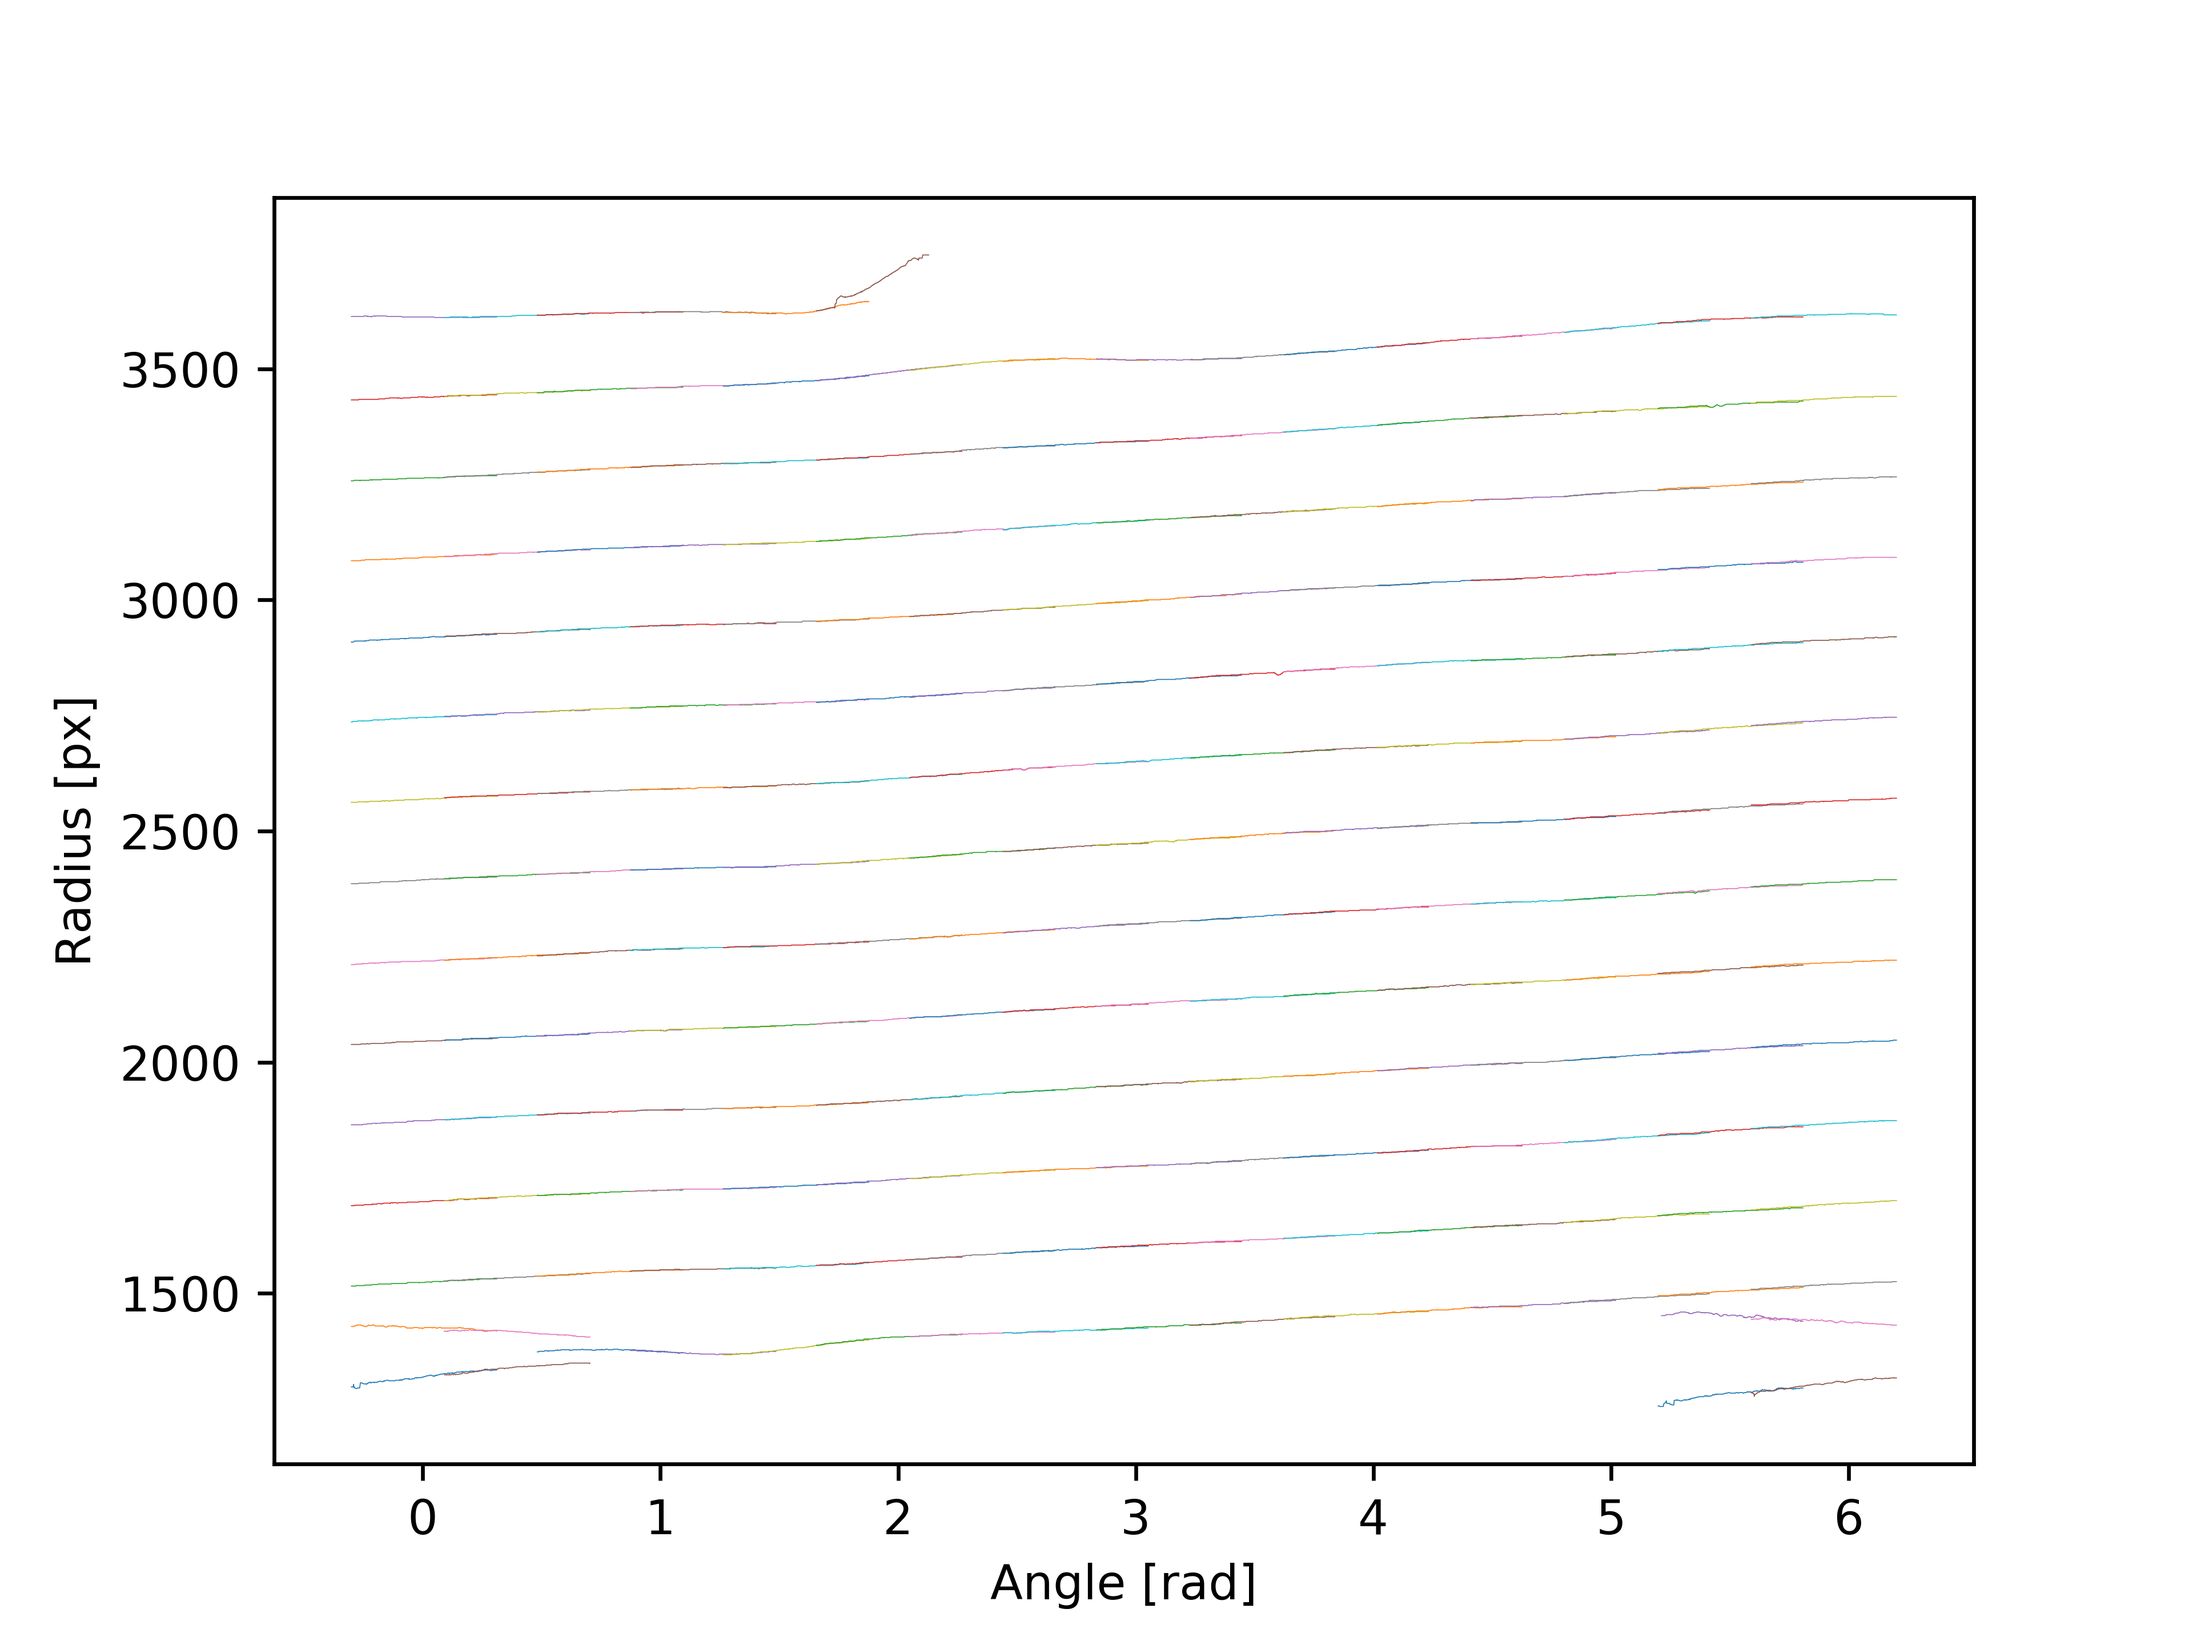
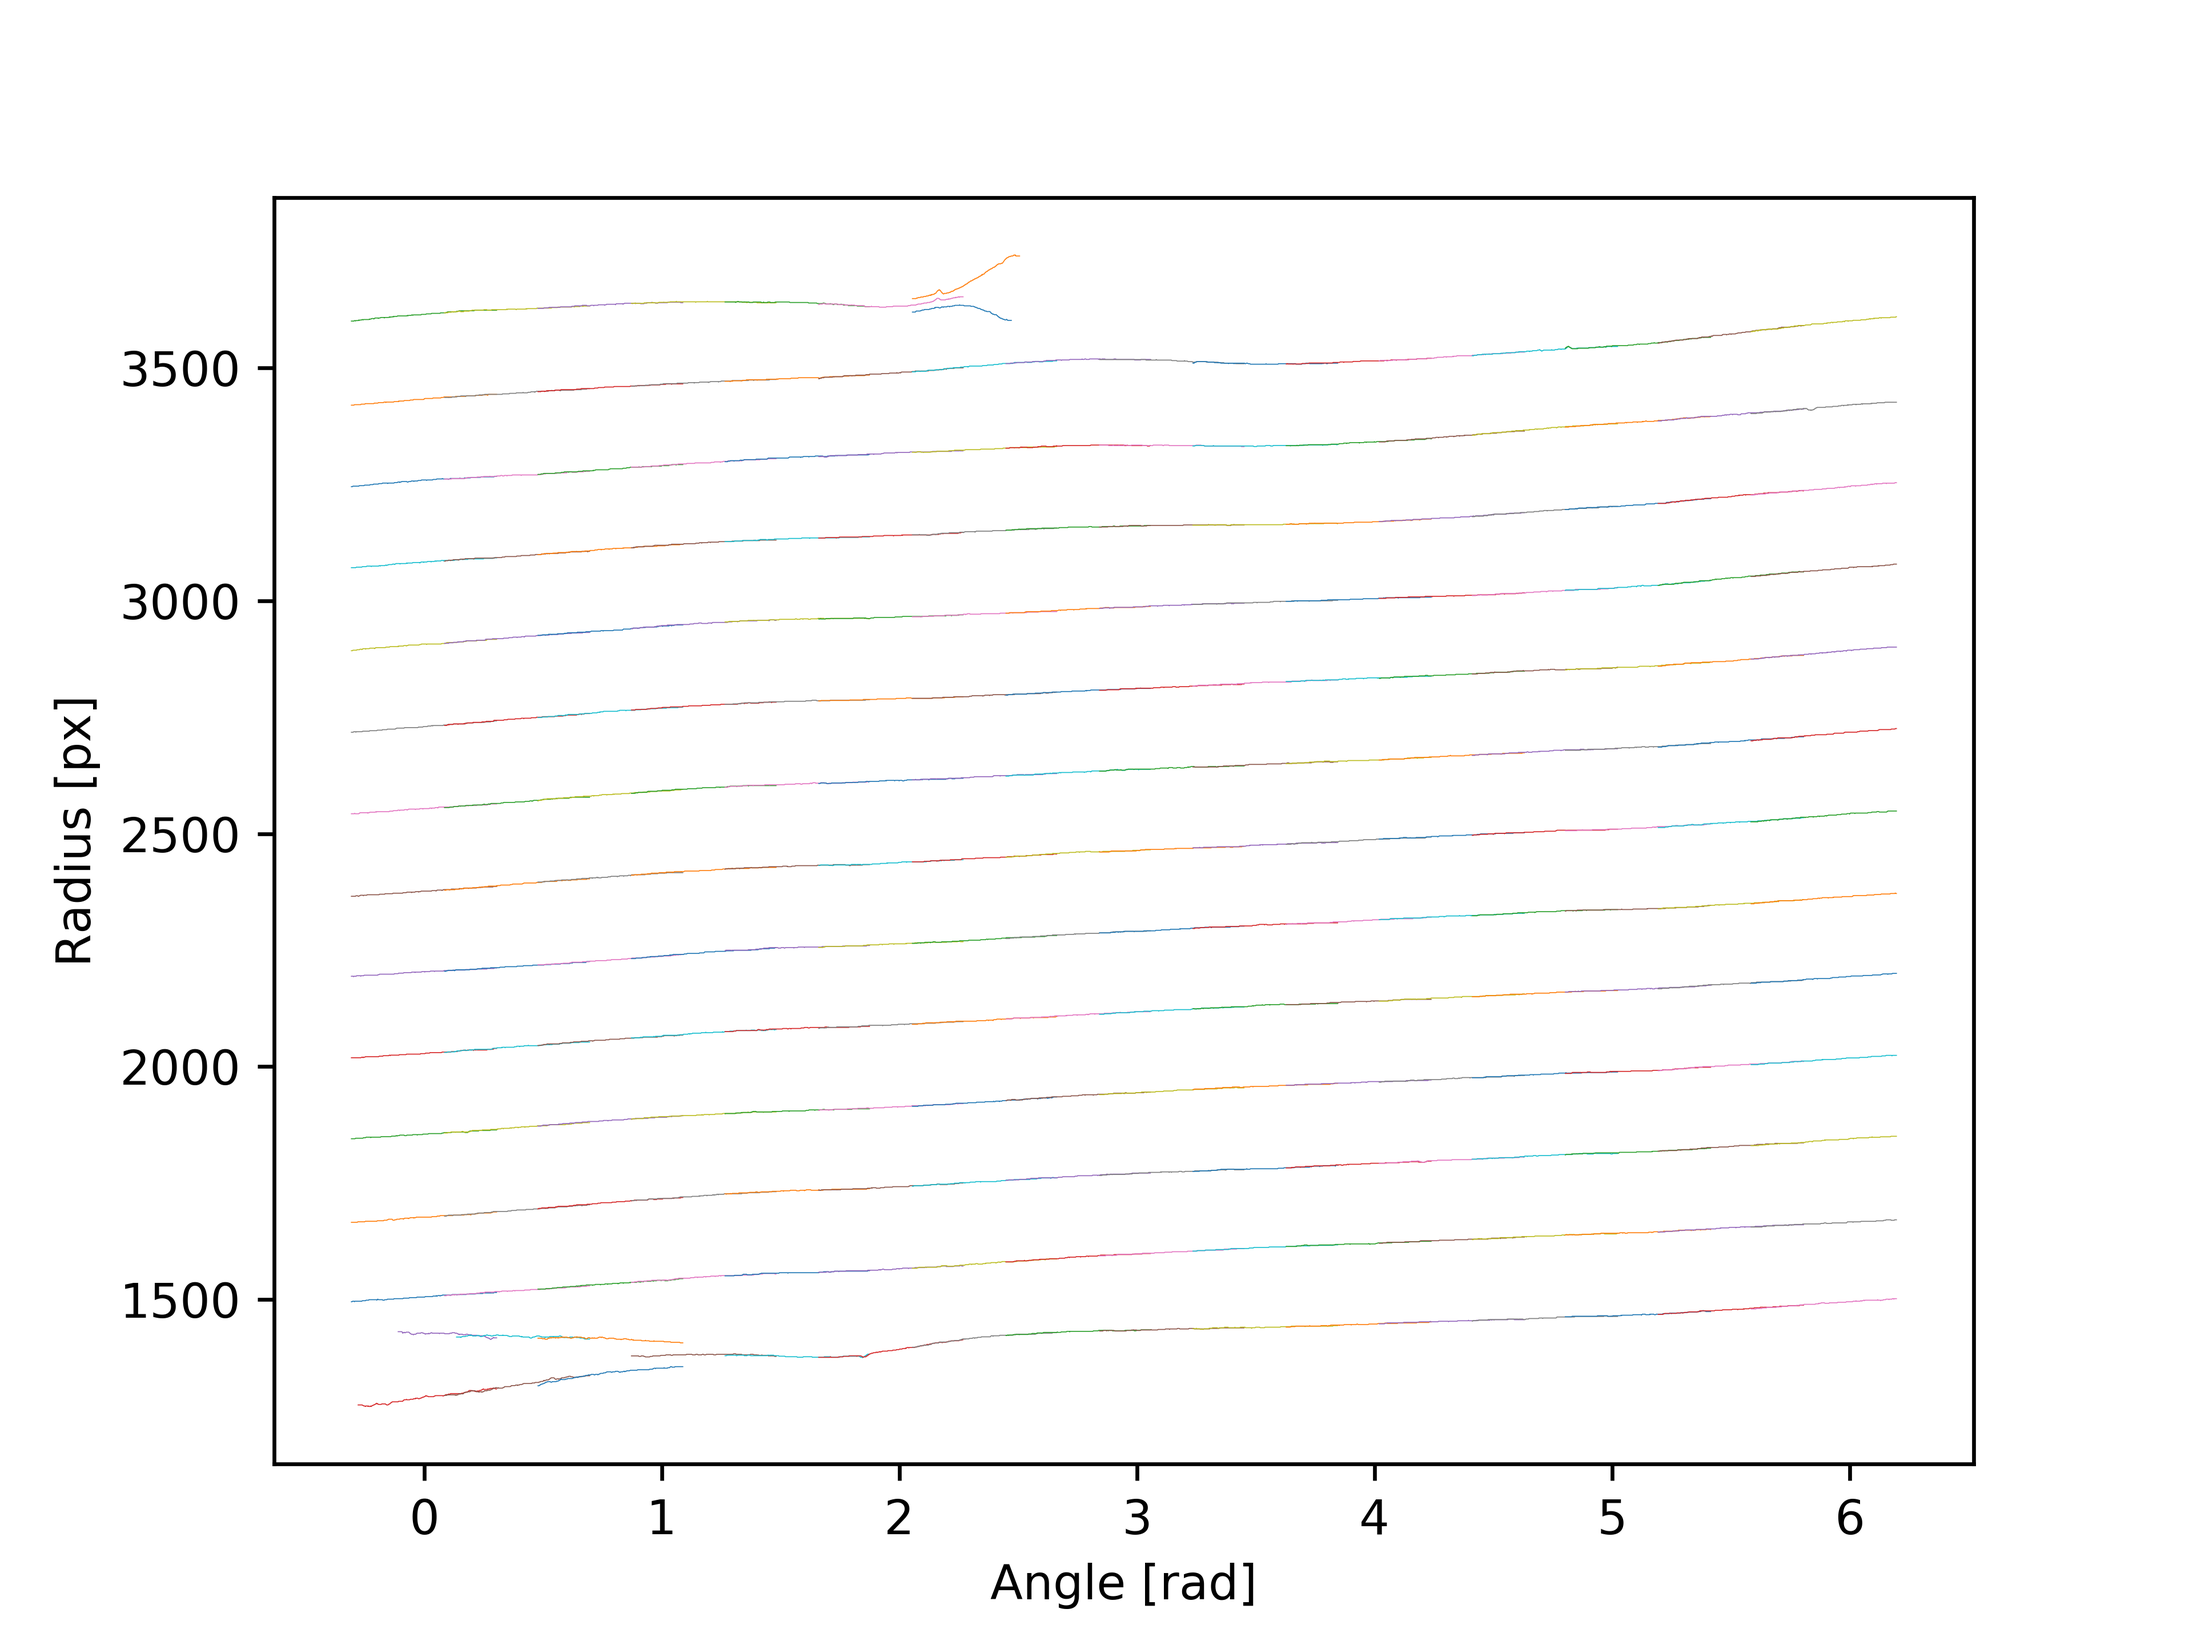
minor changes LAB TEST

diff --git a/applied/pair.py b/applied/pair.py
@@ -33,8 +33,8 @@ class Pair:
         self.electrodes = sorted(electrodes, key=operator.attrgetter('chirality'))
         if self.electrodes[0].chirality == self.electrodes[1].chirality:
             raise Exception('Chirality Error')
-        self.correctMidpoint()
-        self.optimizeRotation()
+        # self.correctMidpoint()
+        # self.optimizeRotation()
         t = datetime.datetime.now()
         self.timestamp = (str(t.year) + '-' + str(t.month) + '-' + str(t.day) + '-' +
                           str(t.hour) + '-' + str(t.minute) + '-' + str(t.second))
@@ -217,37 +217,45 @@ class Pair:
         a2D = np.lib.stride_tricks.as_strided(rs, shape=(nrows, W), strides=(n, n))
         out = np.std(a2D, axis=1)
         cutoff = np.argmax(out > 0.015)
-        rbase = rs[:cutoff]
-        rend = rs[cutoff:]
+        if cutoff != 0:
+            rbase = rs[:cutoff]
+            rend = rs[cutoff:]
 
-        delta_base = rbase[:-1] - rbase[1:]
-        delta_base_std = np.std(delta_base)
-        delta_base_avg = np.mean(np.abs(delta_base))
+            delta_base = rbase[:-1] - rbase[1:]
+            delta_base_std = np.std(delta_base)
+            delta_base_avg = np.mean(np.abs(delta_base))
 
-        smoothed_section = np.ones(len(rs) - cutoff) * rbase[-1]
-        last_true = 0
-        for i, pt in enumerate(rend[1:]):
-            if abs(pt - smoothed_section[i - 1]) < delta_base_avg + 3 * delta_base_std:
-                smoothed_section[i] = pt
-                last_true = i
-            else:
-                smoothed_section[i] = smoothed_section[i - 1]
+            smoothed_section = np.ones(len(rs) - cutoff) * rbase[-1]
+            last_true = 0
+            for i, pt in enumerate(rend[1:]):
+                if abs(pt - smoothed_section[i - 1]) < delta_base_avg + 3 * delta_base_std:
+                    smoothed_section[i] = pt
+                    last_true = i
+                else:
+                    smoothed_section[i] = smoothed_section[i - 1]
 
-        fixed_r = np.append(rbase, smoothed_section[:last_true])
-        fixed_p = phis[:len(fixed_r)]
+            fixed_r = np.append(rbase, smoothed_section[:last_true])
+            fixed_p = phis[:len(fixed_r)]
 
-        return fixed_p, fixed_r
+            return fixed_p, fixed_r
+        else:
+            print('No smoothing necessary')
+            return phis, rs
 
     def plot(self):
         fig = plt.figure()
         ax = fig.add_subplot(111)
         for i, e in enumerate(self.electrodes):
-            x = e.rs * np.cos(e.phis)
-            y = e.rs * np.sin(e.phis)
+            x = e.rs * np.cos(e.phis) / e.scale
+            y = e.rs * np.sin(e.phis) / e.scale
             ax.plot(x, y, color=plt.cm.viridis(i / 1.5), lw=0.8)
         ax.set_aspect('equal')
         ax.set_title('Combined Electrode')
         ax.set_xlabel('X [mm]')
         ax.set_ylabel('Y [mm]')
+        #ax.set_xlim([-22, 22])
+        #ax.set_ylim([-22, 22])
+        ax.set_xlim([-4000, 4000])
+        ax.set_ylim([-4000, 4000])
 
         fig.savefig(__location__ + '/data/plots/' + str(self.serial) + '.png', dpi=300)

diff --git a/sectorImage/core/stitcher.py b/sectorImage/core/stitcher.py
@@ -279,9 +279,7 @@ class Stitcher:
         for b in band_segments:
             ep = b.ep
             others = [s for s in band_segments if s.identity != b.identity]
-            print(ep)
             nearest_band, dr = self.getNearestSegment(b.ep, others, fraction=(1 / len(self.fns)))
-            print(dr)
             if dr < 3.0:
                 contained = False
                 for g in band_groups:
@@ -298,7 +296,6 @@ class Stitcher:
             else:
                 band_groups.append([b.identity])
             ax.plot(b.phis, b.rs, lw=0.2)
-        print(band_groups)
         max_group = max(band_groups, key=len)
         max_bands = [b for b in band_segments if b.identity in max_group]
         for b in max_bands:
@@ -333,6 +330,9 @@ class Stitcher:
         self.startAngle = chirality * self.startAngle
 
         self.endAngle = (chirality * -1 + 1) * np.pi + (chirality * self.endAngle)
+
+        opening_angle = abs(self.startAngle - self.endAngle)
+        print('OPENING ANGLE:', opening_angle)
         # print(self.startAngle)
 
         while True:
@@ -342,8 +342,11 @@ class Stitcher:
                 self.endAngle -= 2 * np.pi
                 end_idx = np.argmax(compP > self.endAngle)
                 break
-        print(len(compP))
-        print(end_idx)
+        loss = len(compP) - end_idx
+
+        if loss > 1000:
+            print('Cutoff Loss Overflow:', loss)
+            end_idx = len(compP) - 1
 
         start_idx = np.argmax(compP > self.startAngle)
         if start_idx == 0:
@@ -352,6 +355,7 @@ class Stitcher:
             start_idx = np.argmax(compP > self.startAngle)
         # start_idx = 0
         # print(compP)
+
         compP = compP[start_idx:end_idx]
         compP -= compP[0]
         compP = chirality * compP[::chirality]

diff --git a/sectorImage/combinedSequence.py b/sectorImage/combinedSequence.py
@@ -18,8 +18,8 @@ def CombinedSequence(n, directory, env):
     t1 = time.time()
     c = Calibrator(fns)
     calibration = c.computeAll()
-    oscillation, calibrationNew = c.oscillationCircle()
-    c.plotCalibration()
+    # oscillation, calibrationNew = c.oscillationCircle()
+    # c.plotCalibration()
     print(_C.BOLD + _C.CYAN + 'Calibration completed in ' + str(round(time.time() - t1, 2)) + 's' + _C.ENDC)
     t2 = time.time()
     s = Stitcher(fns, calibration=calibration, mpflag=True, env=env)

diff --git a/sectorImage/core/image.py b/sectorImage/core/image.py
@@ -43,7 +43,7 @@ class Image:
         else:
             # self.image = cv2.imread(self.fn, cv2.IMREAD_GRAYSCALE)
             self.image = np.load(self.fn_npy)
-        self.image = np.rot90(self.image)
+        # self.image = np.rot90(self.image)
         # print('Image loaded in', str(round(time.time() - t0, 2)), 's')
         self.dimensions = np.shape(self.image)
         self.dimy, self.dimx = self.dimensions

diff --git a/sectorImage/core/calibration.py b/sectorImage/core/calibration.py
@@ -67,7 +67,7 @@ class Calibrator:
         else:
             src = np.load(fn_npy)
 
-        src = np.rot90(src)
+        # src = np.rot90(src)
         # print('Image loaded in', str(round(time.time() - t0, 2)), 's')
         src = src.astype(np.uint8, copy=False)
         # print('Blurring')

diff --git a/applied/main.py b/applied/main.py
@@ -13,7 +13,7 @@ def main():
     s.prime()
     #pair = s.measure(n=16)
     # pair.store()
-    pair = Pair('CSAT_RD-OFFSITE.h5', fromFile=True, corrections=True)
+    pair = Pair('CSAT_0.h5', fromFile=True, corrections=True)
     pair.plot()
     s.disable()
 
